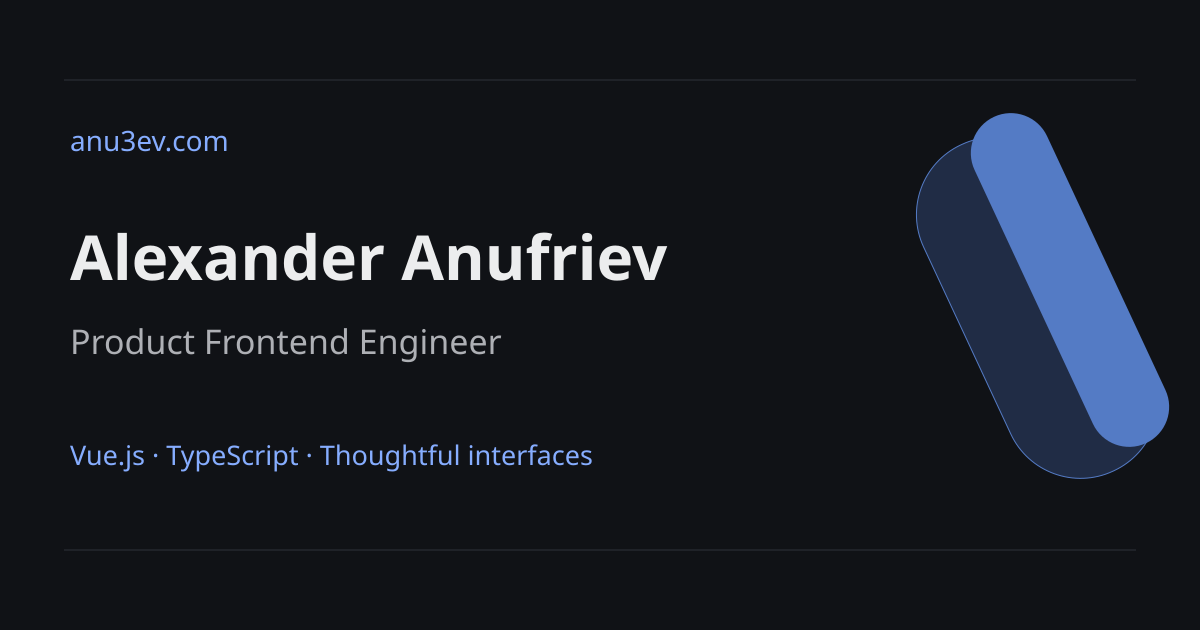
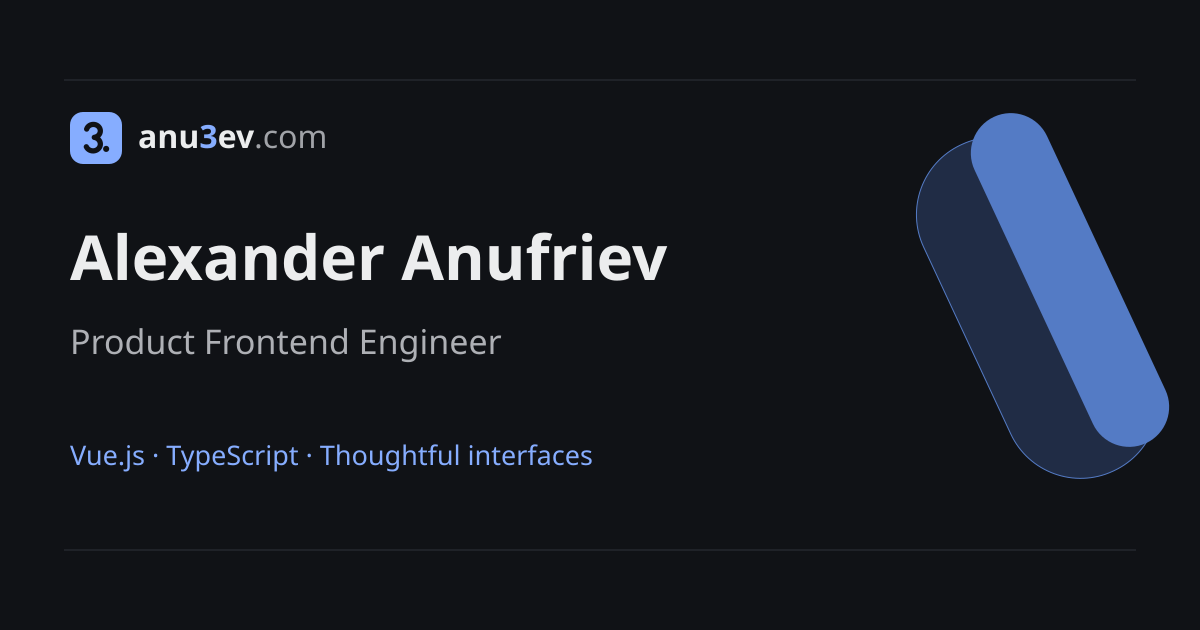
Add the anu3ev.com brand mark and wordmark
A "3." mark (Anu-fri-ev, три) in a theme-aware tile with the
anu3ev.com wordmark replaces the "a." text logo in the sidebar. The
favicon, generated app icons and the default social card use the same
mark.

Changed region(s): [[0.0617, 0.181, 0.2775, 0.2714]]

diff --git a/app/assets/css/main.css b/app/assets/css/main.css
@@ -90,8 +90,14 @@ p { line-height: inherit; }
 .skip-link { position: fixed; z-index: 100; top: 8px; left: 16px; transform: translateY(-160%); padding: 12px 20px; background: var(--accent); color: var(--accent-ink); border-radius: 5px; }
 .skip-link:focus { transform: translateY(0); }
 .site-sidebar { position: sticky; top: 0; display: flex; flex-direction: column; height: 100dvh; min-height: 660px; padding-block: 35px 24px; }
-.wordmark { display: block; width: 50px; font-size: 46px; line-height: 1; letter-spacing: -5px; font-weight: 650; margin: 0 0 53px 12px; }
-.wordmark span, .accent-period { color: var(--accent); }
+/* Mark + domain wordmark keep the previous 46px row so the navigation below does not move. */
+.wordmark { display: inline-flex; align-items: center; gap: 11px; min-height: 46px; margin: 0 0 53px 12px; font-size: 21px; line-height: 1; letter-spacing: -.5px; font-weight: 650; }
+.brand-mark { flex: none; width: 34px; height: 34px; }
+.brand-mark rect { fill: var(--accent); }
+.brand-mark path { fill: none; stroke: var(--accent-ink); stroke-width: 6.5; stroke-linecap: round; stroke-linejoin: round; }
+.brand-mark circle { fill: var(--accent-ink); }
+.wordmark-accent, .accent-period { color: var(--accent); }
+.wordmark-domain { color: var(--muted); font-weight: 500; }
 .nav-caption { margin: 0 14px 16px; }
 .primary-nav { display: grid; gap: 7px; }
 .primary-nav a { display: flex; align-items: center; gap: 14px; padding: 13px 15px; min-height: 50px; font-size: 16px; color: var(--muted); border-radius: 9px; }

diff --git a/app/components/SiteHeader.vue b/app/components/SiteHeader.vue
@@ -23,8 +23,8 @@ const links = computed(
         :to="localePath('/')"
         class="wordmark"
         :title="copy.home"
-        :aria-label="`a. · ${locale === 'ru' ? profile.name_ru : profile.name} · ${copy.home}`"
-      >a<span>.</span></NuxtLink>
+        :aria-label="`anu3ev.com · ${locale === 'ru' ? profile.name_ru : profile.name} · ${copy.home}`"
+      ><BrandMark /><span class="wordmark-text">anu<span class="wordmark-accent">3</span>ev<span class="wordmark-domain">.com</span></span></NuxtLink>
     </div>
 
     <p class="nav-caption">

diff --git a/app/components/BrandMark.vue b/app/components/BrandMark.vue
@@ -1,0 +1,21 @@
+<template>
+  <!-- The "3" reads Anu-fri-ev ("три", three); the period carries over the previous "a." mark. Colours follow the theme tokens. -->
+  <svg
+    class="brand-mark"
+    viewBox="0 0 64 64"
+    aria-hidden="true"
+    focusable="false"
+  >
+    <rect
+      width="64"
+      height="64"
+      rx="16"
+    />
+    <path d="M20.5 21a8.6 8 0 1 1 9.4 10.2 9 8.4 0 1 1-9.8 11.6" />
+    <circle
+      cx="44.5"
+      cy="45.4"
+      r="3.8"
+    />
+  </svg>
+</template>

diff --git a/tests/e2e/responsive.spec.ts b/tests/e2e/responsive.spec.ts
@@ -32,6 +32,7 @@ for (const frame of frames) {
         expect(sidebar.x + sidebar.width).toBeLessThan(main.x)
         expect(main.width).toBeCloseTo(720, 0)
         await expect(page.locator('.wordmark')).toBeVisible()
+        await expect(page.locator('.wordmark')).toHaveAccessibleName(/^anu3ev\.com · /)
       }
 
       if (frame.profile) await expect(page.locator('.profile-sidebar')).toBeVisible()

diff --git a/docs/tasks/21-brand-logo/summary.md b/docs/tasks/21-brand-logo/summary.md
@@ -1,0 +1,10 @@
+# 21 — Brand logo
+
+The domain carries the idea: **anu3ev** is Anu-*fri*-ev with «три» (three) written as **3**. The logo highlights that 3, so the domain is easy to remember and explains itself.
+
+- **Mark:** a geometric "3." in a rounded tile, drawn as a path so it renders without fonts. The period continues the previous "a." mark. An accent-coloured tile was chosen over a dark one: in the size test (16, 32, 64 and 180 px on light and dark tab bars), a dark tile disappeared on dark browser chrome. [Icon sizes](screenshots/icon-sizes.png).
+- **Wordmark:** `anu3ev.com` next to the mark in the sidebar. The 3 uses the accent colour and `.com` is muted. It is HTML text, so it follows the theme, scales with zoom and keeps the old 46 px row, so the navigation does not move. The inline SVG uses the theme tokens (`--accent`, `--accent-ink`): light blue with dark ink in the dark theme, deep blue with white in the light theme. [Both themes, desktop and tablet](screenshots/sidebar-themes.png).
+- **Devices:** `favicon.svg` is the mark; `build-metadata` renders the 48 px favicon, the 180 px Apple touch icon and the 192/512 px manifest icons from it. The default Open Graph card uses the mark and wordmark instead of a plain text line. On mobile the sidebar header stays hidden, as in the MagicPath mobile frame, so the mark appears there as the tab and home-screen icon.
+- **Accessibility:** the SVG is `aria-hidden`. The link's accessible name starts with the visible text (`anu3ev.com · Alexander Anufriev · Home`), which the label-in-name check requires.
+
+Validation: `pnpm check` (51 unit tests), `pnpm build`, and **69 browser/axe checks**, including a new accessible-name assertion for the wordmark.

diff --git a/docs/tasks/01-foundation/plan.md b/docs/tasks/01-foundation/plan.md
@@ -24,5 +24,6 @@ Each task follows requirements → implementation → checks → self-review →
 | 18-post-preview-images | Article preview images at the same size as the article cover | Complete; 69 browser checks passed |
 | 19-ui-copy-review | Russian interface copy rewritten phrase by phrase with the anti-cringe checklist | Complete |
 | 20-profile-photo | Real photo instead of the text avatar, editable avatar field | Complete; 69 browser checks passed |
+| 21-brand-logo | "3." mark and anu3ev.com wordmark, favicon, app icons and default social card | Complete; 69 browser checks passed |
 
 The former plans, HTML prototype and remaining old inventory were removed at the user's request. Useful images were retained as source material; facts were checked against current Obsidian notes. All new requests remain in order, with domain connection explicitly reserved for the final stage.

diff --git a/docs/README.md b/docs/README.md
@@ -29,6 +29,7 @@ Alexander Anufriev's new portfolio. Work started on 20 October 2026, Asia/Tbilis
 - [Article preview image size](tasks/18-post-preview-images/summary.md)
 - [Russian interface copy review](tasks/19-ui-copy-review/summary.md)
 - [Profile photo](tasks/20-profile-photo/summary.md)
+- [Brand logo](tasks/21-brand-logo/summary.md)
 
 Each task has a folder under `docs/tasks/`, a review and a `summary.md` describing actual results. Historical reports retain their original versions, test counts and captured evidence. Current operations live in `docs/operations/`.
 
